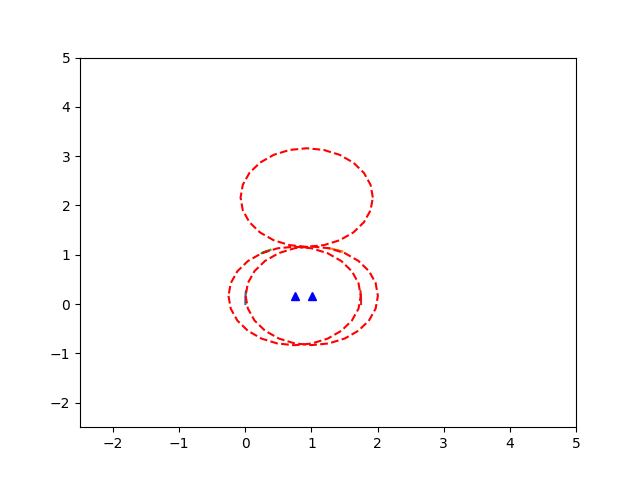
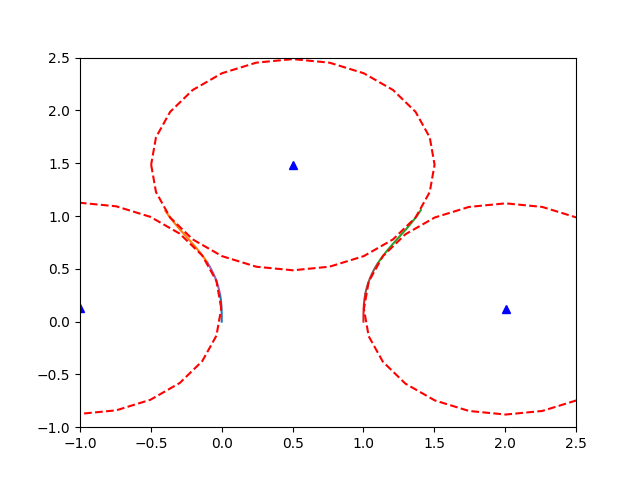
added CCsegment and fixed move S2 and S3

diff --git a/BackmanAlgorithm/SmoothPlanner.py b/BackmanAlgorithm/SmoothPlanner.py
@@ -5,7 +5,7 @@ from StateSpaces import SmoothPathState
 from scipy.integrate import odeint
 from scipy.integrate import solve_ivp
 import matplotlib.pyplot as plt
-from PathSegment import SpiralSegment, CCSegment
+from PathSegment import SpiralSegment, CCSegment, LineSegment
 
 class SmoothPathPlanner:
     """ class for implementation of backman algorithm"""
@@ -347,33 +347,28 @@ class SmoothPathPlanner:
                     break 
                 
                 ################ place S2 and S3 segments ################
-                # TODO: fix the issue with r being from origin if it causes issues
+                
                 self.S2.placePath(self.S1.poses[-1][0], self.S1.poses[-1][1], self.S1.poses[-1][2])
 
                 omega_S2_tC2 = np.array([self.S2.poses[-1][0] - self.k_C2**-1 *sin(self.S2.poses[-1][2]), self.S2.poses[-1][1] + self.k_C2**-1*cos(self.S2.poses[-1][2])])
 
                 r = np.linalg.norm(omega_S2_tC2 - self.omega_k)
 
-                rotAngle = np.arccos(self.omega_kplus1[0]/r) - np.arccos((omega_S2_tC2[0] - self.omega_kplus1[0]) /r)
+                rotAngle = np.arccos((self.omega_kplus1[0] - self.omega_k[0])/r) - np.arccos((omega_S2_tC2[0] - self.omega_k[0]) /r)
                 
                 self.S2.rotateAboutPoint(self.omega_k[0], self.omega_k[1], rotAngle)
-
-
-
 
                 self.S3.placePath(self.S4.poses[0][0], self.S4.poses[0][1], self.S4.poses[0][2], False)
                 
                 omega_S3_tS3 = np.array([self.S3.poses[0][0] - self.k_C2**-1 *sin(self.S3.poses[0][2]), self.S3.poses[0][1] + self.k_C2**-1*cos(self.S3.poses[0][2])])
                 
-                r = np.linalg.norm(np.array([self.S3.poses[0][0] + omega_S3_tS3[0] ,self.S3.poses[0][1] +  omega_S3_tS3[1]]))
+                r = np.linalg.norm(omega_S3_tS3 - self.omega_kplus2)
                 
-                rotAngle = -r*(np.arccos(self.omega_kplus1[0]/r) - np.arccos(omega_S2_tC2[0]/r))
+                rotAngle =  np.arccos((self.omega_kplus1[0] - self.omega_kplus2[0])/r) - np.arccos((omega_S3_tS3[0]- self.omega_kplus2[0])/r)
                 
                 self.S3.rotateAboutPoint(self.omega_kplus2[0], self.omega_kplus2[1], rotAngle)
 
-                ################ make C2 segment ################
-
-                #self.C2 = CCSegment(self.k_C2, self.S2[-1], self.S3[0])
+                
 
             else: #center is a line
 
@@ -395,9 +390,12 @@ class SmoothPathPlanner:
                 
                 ################ make C2 segment ################
 
-
             ################ generate C1 and C3 ################
-      
+            v_C1 = np.array([[self.headlandSpeed, self.dT * i] for i in range(100)])
+            self.C1 = CCSegment(self.k_C1, v_C1, self.S1.poses[-1], self.S2.poses[0], self.omega_k, self.dT)
+
+            v_C3 = np.array([[self.headlandSpeed, self.dT * i] for i in range(100)])
+            self.C3 = CCSegment(self.k_C3, v_C3, self.S3.poses[-1], self.S4.poses[0], self.omega_kplus2, self.dT)
 
 
             self.path_is_not_feasible = False
@@ -407,16 +405,21 @@ class SmoothPathPlanner:
         plt.plot([i[0] for i in self.S2.poses], [i[1] for i in self.S2.poses])
         plt.plot([i[0] for i in self.S3.poses], [i[1] for i in self.S3.poses])
         plt.plot([i[0] for i in self.S4.poses], [i[1] for i in self.S4.poses])
-        #plt.plot([i[0] for i in self.C2.poses], [i[1] for i in self.C2.poses])
+        plt.plot([i[0] for i in self.C1.poses], [i[1] for i in self.C1.poses])
+        plt.plot([i[0] for i in self.C3.poses], [i[1] for i in self.C3.poses])
 
         plt.plot(self.omega_k[0], self.omega_k[1], 'b^')
-        # plt.plot(self.omega_kplus1[0], self.omega_kplus1[1], 'b^')
+        if hasattr(self,'omega_kplus1'):
+            plt.plot(self.omega_kplus1[0], self.omega_kplus1[1], 'b^')
+
         plt.plot(self.omega_kplus2[0], self.omega_kplus2[1], 'b^')
 
         plt.plot([(self.k_C1**-1)*cos(theta) + self.omega_k[0] for theta in np.linspace(0, 2*np.pi, 25)],
                   [(self.k_C1**-1)*sin(theta) + self.omega_k[1] for theta in np.linspace(0, 2*np.pi, 25)], 'r--')
-        plt.plot([(self.k_C2**-1)*cos(theta) + self.omega_kplus1[0] for theta in np.linspace(0, 2*np.pi, 25)],
-                 [(self.k_C2**-1)*sin(theta) + self.omega_kplus1[1] for theta in np.linspace(0, 2*np.pi, 25)], 'r--')
+        if hasattr(self,'omega_kplus1'):
+            plt.plot([(self.k_C2**-1)*cos(theta) + self.omega_kplus1[0] for theta in np.linspace(0, 2*np.pi, 25)],
+                     [(self.k_C2**-1)*sin(theta) + self.omega_kplus1[1] for theta in np.linspace(0, 2*np.pi, 25)], 'r--')
+                     
         plt.plot([(self.k_C3**-1)*cos(theta) + self.omega_kplus2[0] for theta in np.linspace(0, 2*np.pi, 25)],
                   [(self.k_C3**-1)*sin(theta) + self.omega_kplus2[1] for theta in np.linspace(0, 2*np.pi, 25)], 'r--')
         # plt.arrow(self.S1.poses[-1][0], self.S1.poses[-1][1], 0.1*cos(self.S1.poses[-1][2]), 0.1*sin(self.S1.poses[-1][2]), length_includes_head = True, width = 0.02, head_width = 0.03, color = 'r', alpha = 0.5)
@@ -427,8 +430,8 @@ class SmoothPathPlanner:
         # for i in range(0, len(self.S4.poses), int(len(self.S2.poses)/10)):
         #     plt.arrow(self.S4.poses[i][0], self.S4.poses[i][1], 0.1*cos(self.S4.poses[i][2]), 0.1*sin(self.S4.poses[i][2]), length_includes_head = True, width = 0.01, head_width = 0.03, color = 'r', alpha = 0.5)
 
-        plt.xlim([-2.5, 5])
-        plt.ylim([-2.5, 5])
+        plt.xlim([-1, 2.5])
+        plt.ylim([-1, 2.5])
         plt.savefig("trajectory.png")
 
         return self.path
@@ -438,11 +441,14 @@ def main():
 
     # x pos., ypos., orientation, speed, curvature
     initialState = SmoothPathState(0, 0, 0.5*np.pi, 1, 0)
-    finalState = SmoothPathState(1.75, 0, -0.5*np.pi, 1, 0)
-    turningRadius = 1.0  # m
+    finalState = SmoothPathState(1, 0, -0.5*np.pi, 1, 0)
+    L_w = 1.0
+    gamma_max = np.pi/4.0
+    
+    turningRadius = L_w/tan(gamma_max)  # =L_w/tan(gamma_max)
     dT = 0.005
 
-    kMax = 1/float(turningRadius)
+    kMax = 1/turningRadius
     kMin = -kMax
     kDotMax = 5.0  # max derivative of curvature
     kDotMin = -kDotMax  # min derivative of curvature
@@ -473,7 +479,7 @@ def main():
 
     planSmoothInst = SmoothPathPlanner()
 
-    pathType = R1L1R
+    pathType = LRL
     planSmoothInst.setConstraints(
         kConstraints, vConstraints, headlandSpeed, headlandSpeedReverse)
     planSmoothInst.setNominalCurvatures(

diff --git a/BackmanAlgorithm/PathSegment.py b/BackmanAlgorithm/PathSegment.py
@@ -7,7 +7,7 @@ class PathSegment:
 
     def placePath(self, x, y, theta, wrtStart=True):
         """ 
-        Places the path at a point 
+        Places a path so that either the first or last element of the path is equal to the given [x,y,th].
 
         Input: 
             theta: orientation of start or end pose(rad)
@@ -37,7 +37,7 @@ class PathSegment:
 
         rotAndTranslatedPoints = np.matmul(TxH,homogenousCoords)
 
-        #next line does a bunch of broadcasting to strip the ones from homogenous coords and add back the orientation data
+        #next line does a bunch of broadcasting to strip the ones from homogenous coords and add back the orientation values
         finalPath = rotAndTranslatedPoints * np.array([[1], [1], [0]]) + (self.poses.T * np.array([[0], [0], [1]])) + np.array([[0], [0], [thetaRotate]])
 
         self.poses = finalPath.T
@@ -89,6 +89,7 @@ class SpiralSegment(PathSegment):
 
     def __init__(self, kTrajectory, vTrajectory, xo):
         self.poses = self.integrateTrajectory(kTrajectory, vTrajectory, xo)
+        self.controls = np.array([[kTrajectory[i][0], vTrajectory[i][0]] for i in range(len(kTrajectory))]) #TODO: optimize with array operations
     
     def integrateTrajectory(self, kTrajectory, vTrajectory, xo):
         """ 
@@ -138,10 +139,59 @@ class SpiralSegment(PathSegment):
         k = u[1]
         theta = x[2]
 
-        return [v*cos(theta), v*sin(theta), k]
+        return [v*cos(theta), v*sin(theta), k*v]
 
 class CCSegment(PathSegment):
 
-    def __init__(self, curvature, speed, start, end):
-        if np.abs(curvature) > 0: #arc segment
-            a = 0
+    def __init__(self, curvature, vTraj, start, end, center, dT):
+        """
+        Generates a constant curvature segment from start to end coordinates, with given curvature, cetner of rotation and speed profile. 
+
+        Input: 
+            curvaure: curvature of constant arc (float)
+            vTraj: velocity profile of constant arc segment (Nx2 array of floats)
+            start: SE2 position of start point (1x2 array of floats)
+            end: SE2 position of end point (1x2 array of floats)
+            center: R2 position of center of turning (1x2 of floats)
+            dT: timestep, must be timestep of overall planning profile (float)
+        """
+        
+        ang1 = np.arctan2(start[1]-center[1],start[0]-center[0])
+        ang2 = np.arctan2(end[1]-center[1], end[0]-center[0])
+        r = np.linalg.norm(start[0:2]-center)
+
+        if(curvature > 0 and ang2 < ang1):
+            ang2 = ang2 + 2*np.pi
+        
+        if(curvature < 0 and ang2 > ang1):
+            ang2 = ang2 - 2*np.pi
+
+        arcLen = r*(ang2-ang1)
+        maxTimeToTraverse = arcLen/np.amin(vTraj.T[0])
+        maxStepsToTraverse = int(maxTimeToTraverse/dT)
+
+        self.poses = np.zeros([maxStepsToTraverse+1,3])
+        self.controls = np.zeros([maxStepsToTraverse+1,2])
+
+        ang = ang1
+        i = 0 #counter
+        v_index = i
+
+        while (ang < ang2):
+            w = abs(vTraj[v_index][0])/r
+            ang = ang + np.sign(curvature)*w*dT
+            
+            self.poses[i] = np.array([center[0] + r*cos(ang), center[1] + r*sin(ang), ang + np.sign(curvature)*np.pi/2.0])
+            self.controls[i] = np.array([vTraj[v_index][0], curvature])
+            
+            i = i + 1
+            if v_index < len(vTraj) - 1:
+                v_index = v_index + 1
+
+        self.poses = self.poses[0:i] #trim excess
+
+class LineSegment(PathSegment):
+
+    def __init__(self, speed, start, end, phi, dT):
+        
+        a = 0
